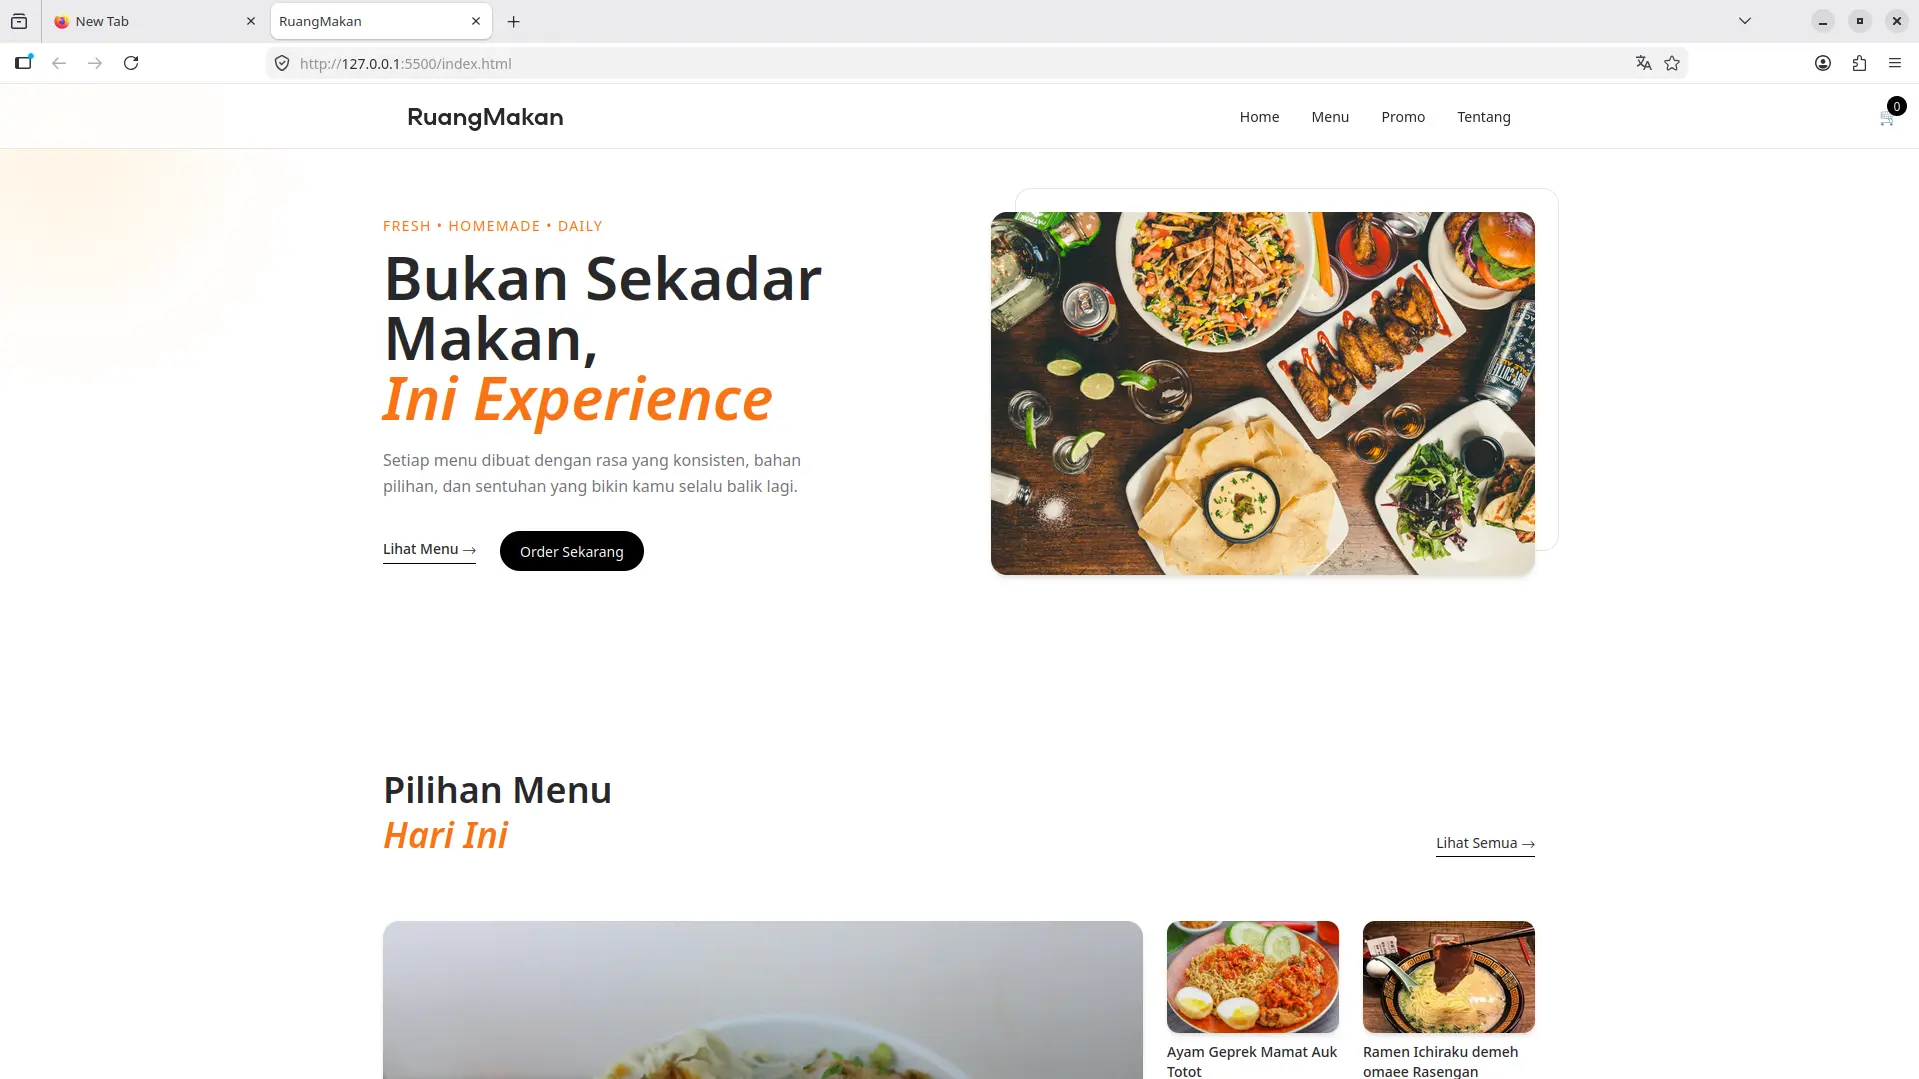
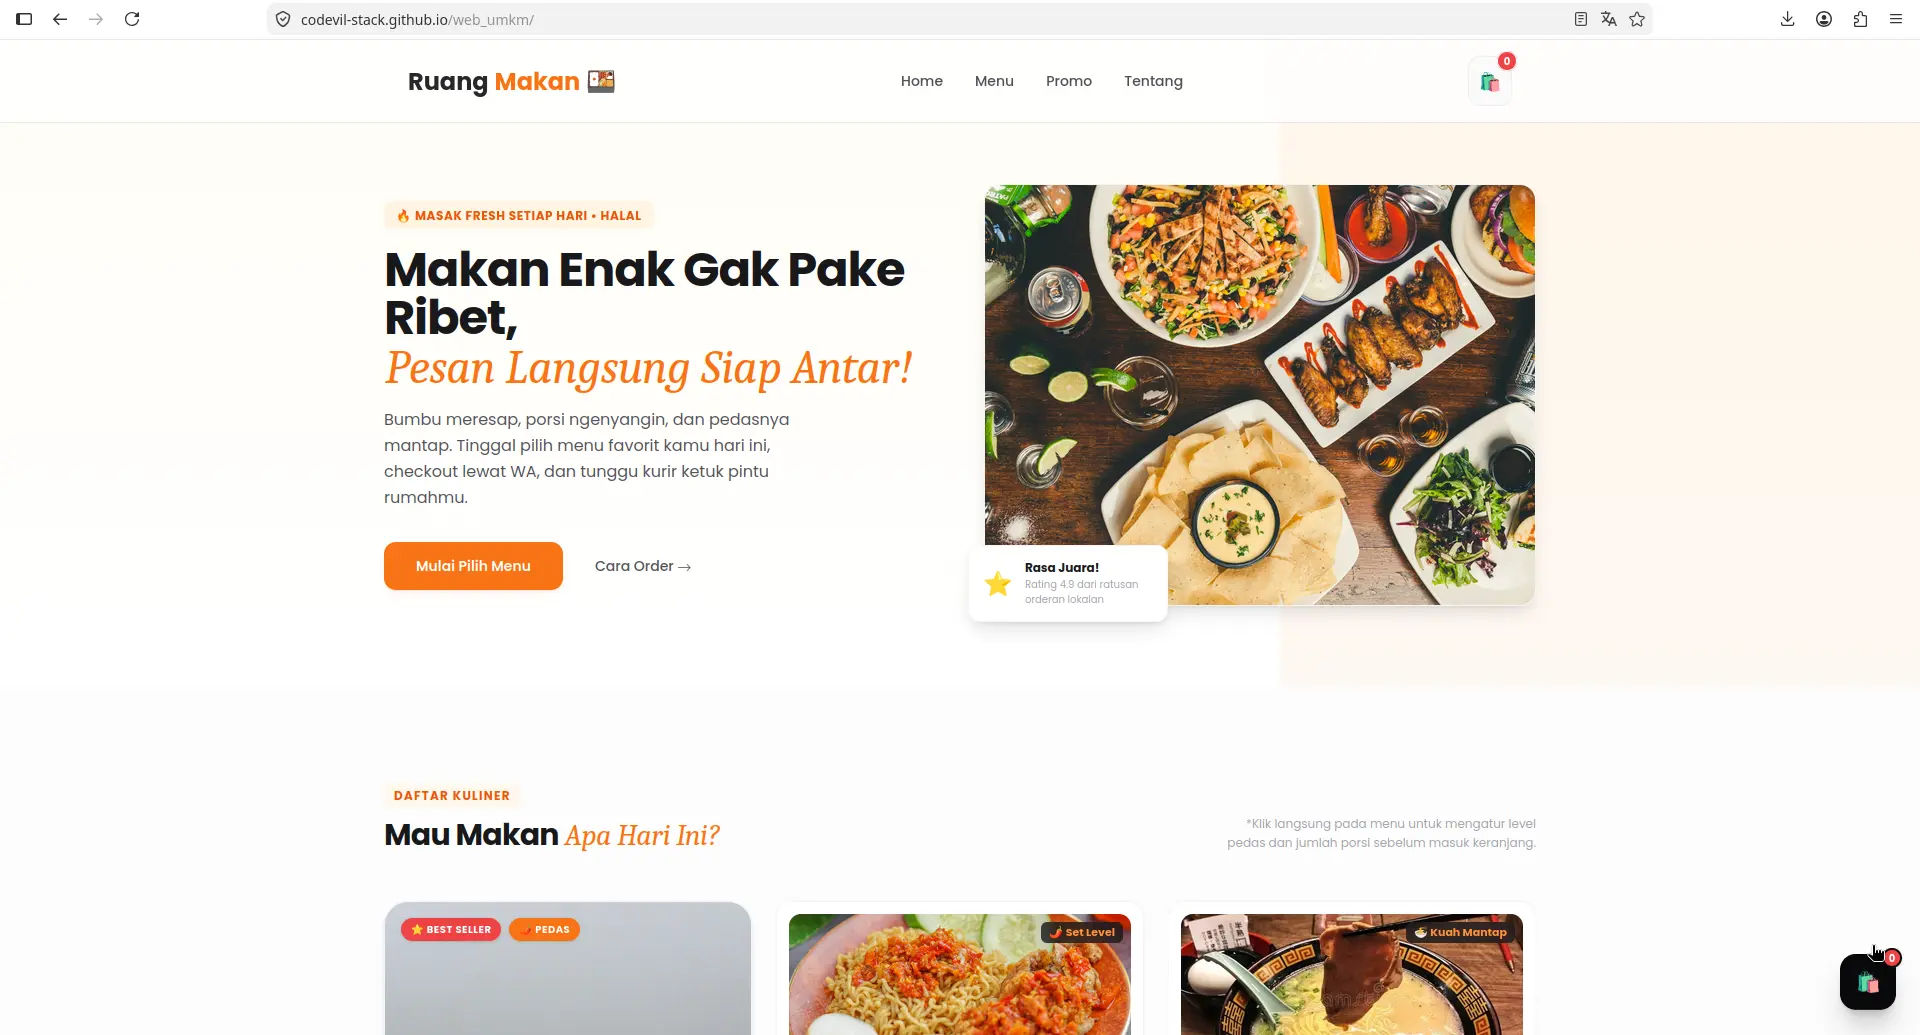
Initial commit: tambah web umkm

diff --git a/index.html b/index.html
@@ -539,7 +539,7 @@
                 </div>
 
                 <div data-aos="fade-up" data-aos-duration="800" data-aos-delay="100">
-                    <a href="https://link-web-makanan-lu.com" target="_blank"
+                    <a href="https://codevil-stack.github.io/web_umkm/" target="_blank"
                         class="group bg-white border border-zinc-200 rounded-3xl p-5 shadow-xs hover:shadow-xl hover:border-zinc-300 transition duration-300 flex flex-col justify-between h-full relative overflow-hidden">
 
                         <div class="relative z-10">
